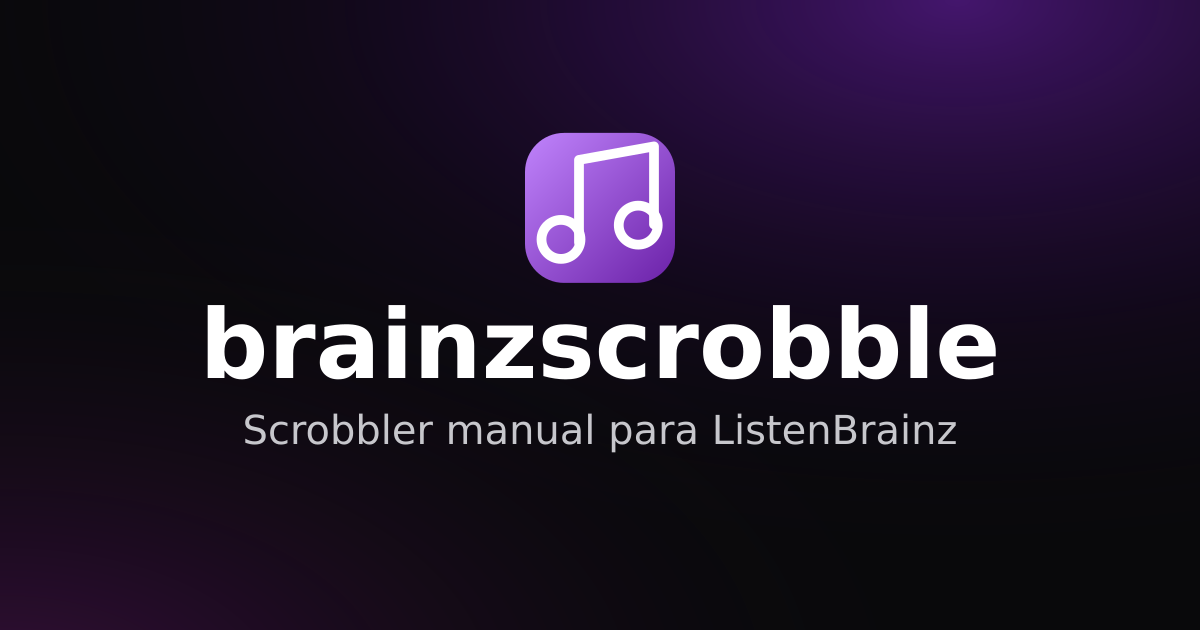
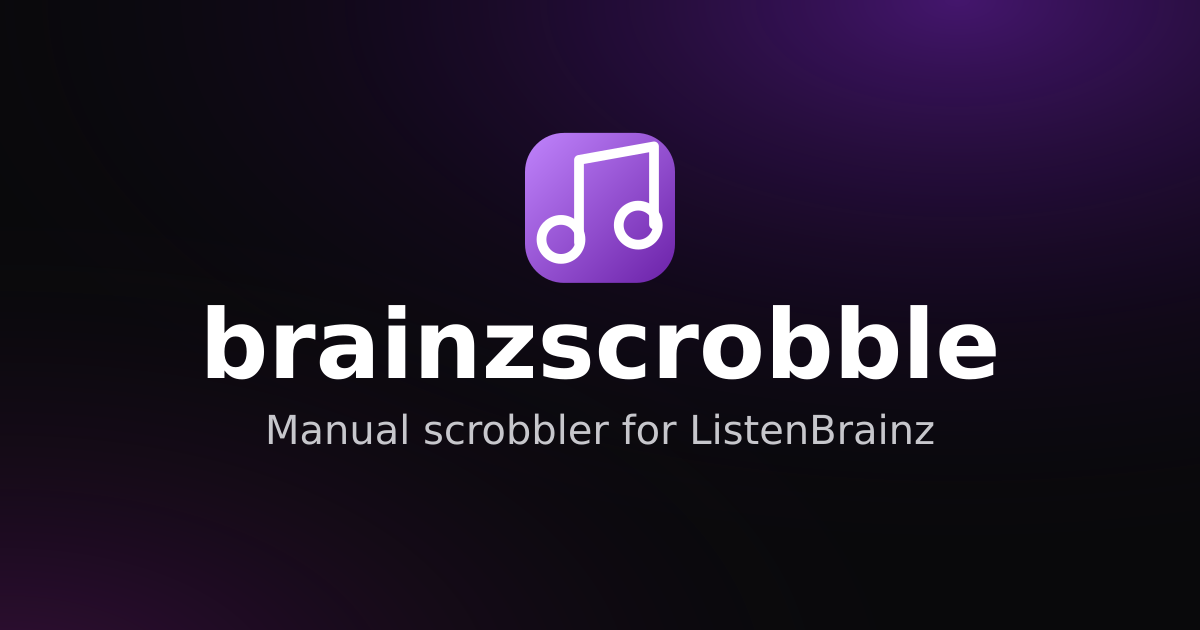
feat: localized SEO meta and English social images

Changed region(s): [[0.185, 0.6333, 0.8017, 0.7238]]

diff --git a/index.html b/index.html
@@ -4,6 +4,45 @@
     <meta charset="UTF-8" />
     <meta name="viewport" content="width=device-width, initial-scale=1.0" />
 
+    <script>
+      (function () {
+        try {
+          var key = 'brainzscrobble.locale';
+          var saved = null;
+          try {
+            saved = localStorage.getItem(key);
+          } catch (e) {
+            saved = null;
+          }
+          var locale = saved;
+          if (locale !== 'es' && locale !== 'en') {
+            locale =
+              (navigator.language || 'en').toLowerCase().indexOf('es') === 0
+                ? 'es'
+                : 'en';
+            try {
+              localStorage.setItem(key, locale);
+            } catch (e) {
+              /* storage unavailable; ignored */
+            }
+          }
+          var isEs = locale === 'es';
+          var esTitle = 'brainzscrobble — Scrobbler manual para ListenBrainz';
+          var enTitle = 'brainzscrobble — Manual scrobbler for ListenBrainz';
+          var esDesc =
+            'Scrobbler manual para ListenBrainz: envía tus escuchas al instante o en lote directamente desde tu navegador, sin instalar nada.';
+          var enDesc =
+            'Manual scrobbler for ListenBrainz: send your listens instantly or in batches directly from your browser, no install required.';
+          document.documentElement.lang = locale;
+          document.title = isEs ? esTitle : enTitle;
+          var el = document.querySelector('meta[name="description"]');
+          if (el) el.setAttribute('content', isEs ? esDesc : enDesc);
+        } catch (e) {
+          /* detection failed; keep defaults */
+        }
+      })();
+    </script>
+
     <!-- Basic SEO -->
     <title>brainzscrobble — Scrobbler manual para ListenBrainz</title>
     <meta
@@ -18,6 +57,9 @@
 
     <!-- Canonical: update this URL to the final domain before shipping -->
     <link rel="canonical" href="https://brainzscrobble.vercel.app/" />
+    <link rel="alternate" hreflang="es" href="https://brainzscrobble.vercel.app/" />
+    <link rel="alternate" hreflang="en" href="https://brainzscrobble.vercel.app/" />
+    <link rel="alternate" hreflang="x-default" href="https://brainzscrobble.vercel.app/" />
 
     <!-- Open Graph -->
     <meta property="og:type" content="website" />

diff --git a/src/App.svelte b/src/App.svelte
@@ -20,9 +20,22 @@
     const locale = i18n.locale;
     document.documentElement.lang = locale;
     document.title = t('seo.title');
+    const desc = t('seo.description');
     document
       .querySelector('meta[name="description"]')
-      ?.setAttribute('content', t('seo.description'));
+      ?.setAttribute('content', desc);
+    document
+      .querySelector('meta[property="og:title"]')
+      ?.setAttribute('content', t('seo.title'));
+    document
+      .querySelector('meta[name="twitter:title"]')
+      ?.setAttribute('content', t('seo.title'));
+    document
+      .querySelector('meta[property="og:description"]')
+      ?.setAttribute('content', desc);
+    document
+      .querySelector('meta[name="twitter:description"]')
+      ?.setAttribute('content', desc);
     document
       .querySelector('meta[property="og:locale"]')
       ?.setAttribute('content', locale === 'es' ? 'es_ES' : 'en_US');

diff --git a/AGENTS.md b/AGENTS.md
@@ -36,7 +36,9 @@ Always run `npm run check` (and `npm run build` if output changes) after modifyi
   - `parse.ts` — Open Scrobbler-style parser (`parsePasted`/`parseList`).
   - `settings.svelte.ts` — user settings (`timeFormat` 12/24, `dateFormat`, `autoSplit`, `theme`) persisted in `localStorage` (`brainzscrobble.settings`); applies the `light` class to `<html>` on import.
 - `src/i18n/es.ts` + `src/i18n/en.ts` — dictionaries. `es` is the reference; `type Translations = Record<keyof typeof es, string>` enforces at compile time that every language has exactly the same keys.
-- `index.html` — SEO/OG/Twitter/JSON-LD metas; **unreplaced domain placeholder `https://brainzscrobble.vercel.app/`**.
+- `index.html` — SEO/OG/Twitter/JSON-LD metas; inline script that picks the saved locale (or
+  `navigator.language`) and sets `<html lang>`/`title`/`description` pre-render; hreflang es/en/x-default;
+  **unreplaced domain placeholder `https://brainzscrobble.vercel.app/`**.
 - `vercel.json` — security headers (strict CSP, nosniff, etc.).
 - `scripts/generate-meta-images.mjs` — generates social images with sharp.
 

diff --git a/README.md b/README.md
@@ -68,7 +68,9 @@ Notes:
 
 - `index.html` includes meta `description`, Open Graph, Twitter Card, `canonical`, `robots` and
   JSON-LD `WebApplication`; `lang`, `title`, `description` and `og:locale` are updated on language
-  change.
+  change. An inline script before render picks the saved language (or the browser's `navigator.language`)
+  and sets `<html lang>`, `title` and `description` in ES/EN before Svelte mounts.
+- `hreflang` alternates (`es`, `en`, `x-default`) point to the single URL.
 - **Important**: until you set the real domain, use `https://brainzscrobble.vercel.app/` as a
   placeholder in `index.html` (canonical, `og:url`, `og:image`, `twitter:image` and JSON-LD).
   Change it to your final domain before shipping.
